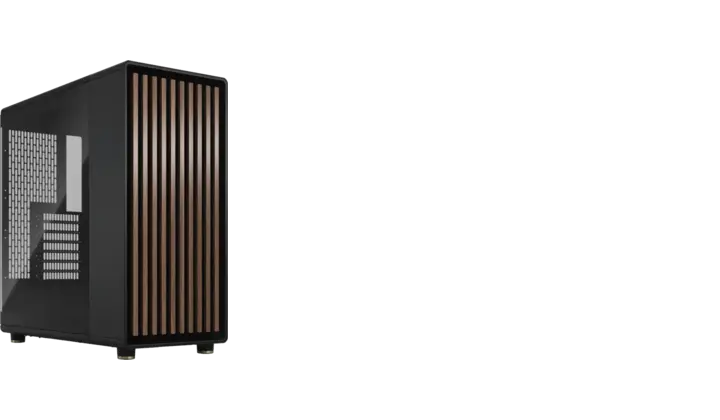
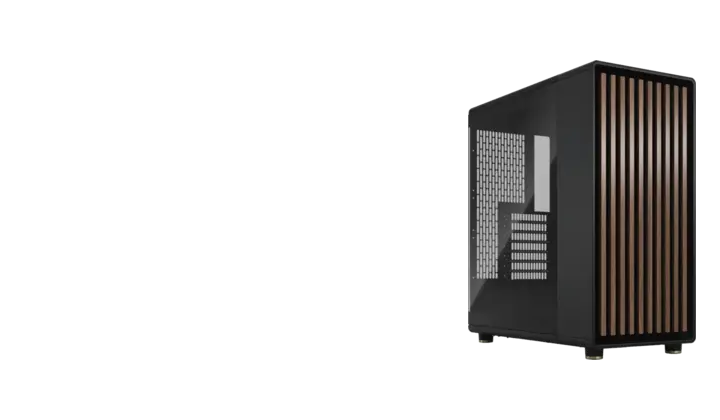
Corrige la alineación visual de los componentes

diff --git a/styles.css b/styles.css
@@ -88,7 +88,7 @@ button:focus-visible, a:focus-visible { outline: 2px solid var(--sage-2); outlin
 .part-card { position: relative; min-height: 260px; display: flex; flex-direction: column; align-items: flex-start; justify-content: flex-end; padding: 27px; overflow: hidden; contain: paint; isolation: isolate; border: 1px solid var(--line); background: linear-gradient(145deg, #161914, #11130f); transition: transform .2s, border-color .2s; }
 .part-card:hover { transform: translateY(-4px); border-color: #5a6555; }
 .part-card::after { content: ""; position: absolute; z-index: -1; inset: 0; background: linear-gradient(0deg, #12140fff 0, #12140ff4 32%, #12140f8f 58%, #12140f0d 100%), linear-gradient(90deg, #12140fa8 0, #12140f36 58%, transparent 100%); }
-.part-card__image { position: absolute; z-index: -2; top: -20%; left: auto; right: 0; width: 100%; height: 145%; max-width: none; object-fit: cover; object-position: right center; filter: saturate(.96) contrast(1.06) brightness(1.03); opacity: .98; transition: opacity .28s ease, filter .28s ease; }
+.part-card__image { position: absolute; z-index: -2; top: -20%; left: auto; right: 0; width: 100%; height: 145%; max-width: none; object-fit: cover; object-position: 100% 50%; filter: saturate(.96) contrast(1.06) brightness(1.03); opacity: .98; transition: opacity .28s ease, filter .28s ease; }
 .part-card:hover .part-card__image { opacity: 1; filter: saturate(1) contrast(1.08) brightness(1.06); }
 .part-card > span { position: absolute; top: 22px; left: 27px; width: auto; display: block; margin: 0; color: #858d80; font: 24px "Newsreader", Georgia, serif; text-shadow: 0 2px 14px #0b0d0b; }
 .part-card small, .part-card h3, .part-card p { position: relative; }
@@ -174,7 +174,7 @@ footer b { color: #c8c4ba; font: 18px "Newsreader", Georgia, serif; letter-spaci
   .section-head h2, .compare-heading h2 { font-size: 39px; }
   .parts-grid, .build-choices { grid-template-columns: 1fr; }
   .part-card { min-height: 250px; }
-  .part-card__image { top: -18%; left: auto; right: 0; width: 100%; height: 145%; object-position: right center; }
+  .part-card__image { top: -18%; left: auto; right: 0; width: 100%; height: 145%; object-position: 100% 50%; }
   .part-card small, .part-card h3, .part-card p { width: 78%; }
   .history li { grid-template-columns: 1fr; gap: 13px; }
   .build-choices { margin-top: 45px; }

diff --git a/script.js b/script.js
@@ -23,7 +23,7 @@ const builds = {
       ["RAM", "16 GB DDR4 · 2133 MHz", "Memoria del montaje original", "assets/components/sue-ram-ddr4.webp"],
       ["SSD", "SanDisk Plus · 480 GB", "Sistema y aplicaciones antes de pasar al PC 2", "assets/components/sue-ssd-sandisk-plus.webp"],
       ["HDD", "Toshiba · 2 TB", "Almacenamiento de archivos del PC 1", "assets/components/pc1-hdd-toshiba-2tb.webp"],
-      ["Caja", "NOX Hummer MC Pro", "La torre negra con iluminación ARGB", "assets/pc1-nox.webp"],
+      ["Caja", "NOX Hummer MC Pro", "La torre negra con iluminación ARGB", "assets/components/pc1-case-nox.webp"],
       ["Fuente", "ATX · 750 W", "Modelo exacto no documentado", "assets/components/pc1-psu-atx-750w.webp"]
     ],
     history: [
@@ -129,7 +129,7 @@ let currentView = "comparativa";
 function partCards(parts) {
   return parts.map(([kind, name, detail, image], index) => `
     <article class="part-card">
-      <img class="part-card__image" src="${image}?v=6" alt="" aria-hidden="true" decoding="async">
+      <img class="part-card__image" src="${image}?v=right-20260801" alt="" aria-hidden="true" decoding="async">
       <span>${String(index + 1).padStart(2, "0")}</span>
       <small>${kind}</small>
       <h3>${name}</h3>

diff --git a/assets/components/SOURCES.md b/assets/components/SOURCES.md
@@ -2,7 +2,7 @@
 
 Las imágenes se han recortado, optimizado a WebP y, cuando era necesario, se ha eliminado el fondo para integrarlas en las tarjetas.
 
-Todos los recortes publicados usan un lienzo transparente común de 720 × 420 px. La web los amplía y alinea visualmente a la derecha de cada tarjeta.
+Todos los recortes publicados usan un lienzo transparente común de 720 × 420 px. El contenido visible queda alineado al borde derecho del propio lienzo para que la web pueda ampliarlo sin recentrarlo ni perder nitidez.
 
 - Intel Core i7-12700KF: imagen del procesador publicada por [RV Informática](https://rvinformatica.com/para-gaming-intel-socket-1700/216-cpu-intel-core-i7-12700kf-5032037234047.html).
 - Intel Core i7-14700K: imagen del procesador publicada por [Ayoub Computers](https://ayoubcomputers.com/intel-core-i7-14700k-tray-desktop-processor-20-cores-up-to-5-6ghz-lga1700-tray/).
@@ -18,4 +18,4 @@ Todos los recortes publicados usan un lienzo transparente común de 720 × 420 p
 - Noctua NH-U12S chromax.black: [Noctua](https://www.noctua.at/en/products/nh-u12s-chromax-black).
 - Fotografía DDR4: ElooKoN, [Wikimedia Commons](https://commons.wikimedia.org/wiki/File:RAM_Module_(SDRAM-DDR4).jpg), CC BY-SA 4.0. Se ha eliminado el fondo, recortado y optimizado.
 - Intel Core i7-6700K, placa Z170, HDD de 3,5 pulgadas, fuente ATX histórica y soporte de GPU: recortes de catálogo generados para completar las piezas no disponibles, sin logotipos ni texto inventado, y convertidos a fondo transparente.
-- Las fotografías de las torres MSI MAG Forge 320R y Fractal Design North se han aislado sobre transparencia para eliminar sus fondos blancos y mantener un tratamiento visual común.
+- Las fotografías de las torres NOX Hummer MC Pro, MSI MAG Forge 320R y Fractal Design North se han aislado sobre transparencia para eliminar sus fondos blancos y mantener un tratamiento visual común.
